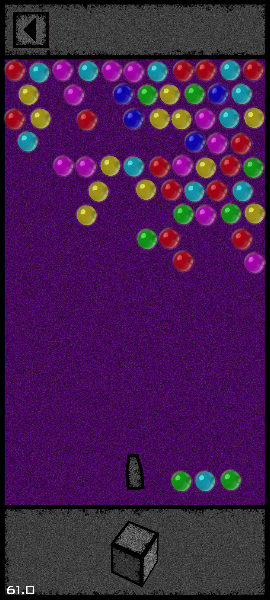
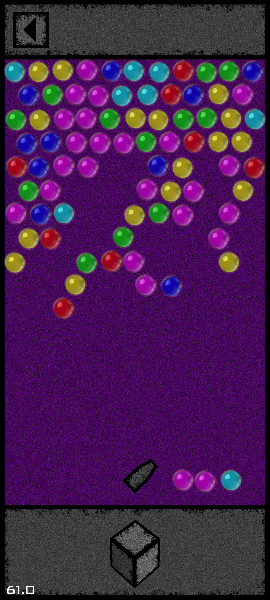
added generating unique colors for groups of bubbles and limiting raising shooted bubble

diff --git a/core/src/main/java/com/tbane/bubble_shooter/Game/Game.java b/core/src/main/java/com/tbane/bubble_shooter/Game/Game.java
@@ -124,21 +124,29 @@ public class Game extends Layout {
     }
 
     private int generateColor(Bubble bubble) {
-        int color = -1;
-        boolean selectedColor = false;
-        while(!selectedColor){
-            color = (int)(Math.random()*6);
-            selectedColor = true;
-            for(Direction direction : Direction.values()){
-                Bubble ngbr = getNeighbour(bubble, direction);
-                if(ngbr != null && ngbr._color == color)
-                    selectedColor = false;
+        ArrayList<Integer> neighborColors = new ArrayList<>();
+
+        for (Direction dir : Direction.values()) {
+            Bubble ngbr = getNeighbour(bubble, dir);
+            if (ngbr != null) {
+                neighborColors.add(ngbr._color);
             }
         }
 
-        return color;
-    }
+        ArrayList<Integer> possibleColors = new ArrayList<>();
+        for (int i = 0; i < 6; i++) {
+            if (!neighborColors.contains(i)) {
+                possibleColors.add(i);
+            }
+        }
 
+        if (possibleColors.isEmpty()) {
+            return (int)(Math.random() * 6);
+        }
+
+        int index = (int)(Math.random() * possibleColors.size());
+        return possibleColors.get(index);
+    }
     private void coloringBubbles(){
         for(int i=0; i<64; i++){
             int y = (int)(Math.random()*_bubblesLinesAtStart);
@@ -244,13 +252,18 @@ public class Game extends Layout {
             Vector2 position = bubble._bubble.getPositionWithVariation();
             boolean bubbleCollided = false;
 
-            for (Bubble staticBubble : _bubbles) {
-                float xx = position.x - staticBubble.getPositionWithVariation().x;
-                float yy = position.y - staticBubble.getPositionWithVariation().y;
+            if(position.y > Renderer.VIRTUAL_HEIGHT - 160 - Bubble._radius)
+                bubbleCollided = true;
 
-                if (xx * xx + yy * yy <= 4.0f * Bubble._radius * Bubble._radius) {
-                    bubbleCollided = true;
-                    break;
+            if(!bubbleCollided){
+                for (Bubble staticBubble : _bubbles) {
+                    float xx = position.x - staticBubble.getPositionWithVariation().x;
+                    float yy = position.y - staticBubble.getPositionWithVariation().y;
+
+                    if (xx * xx + yy * yy <= 4.0f * Bubble._radius * Bubble._radius) {
+                        bubbleCollided = true;
+                        break;
+                    }
                 }
             }
 
